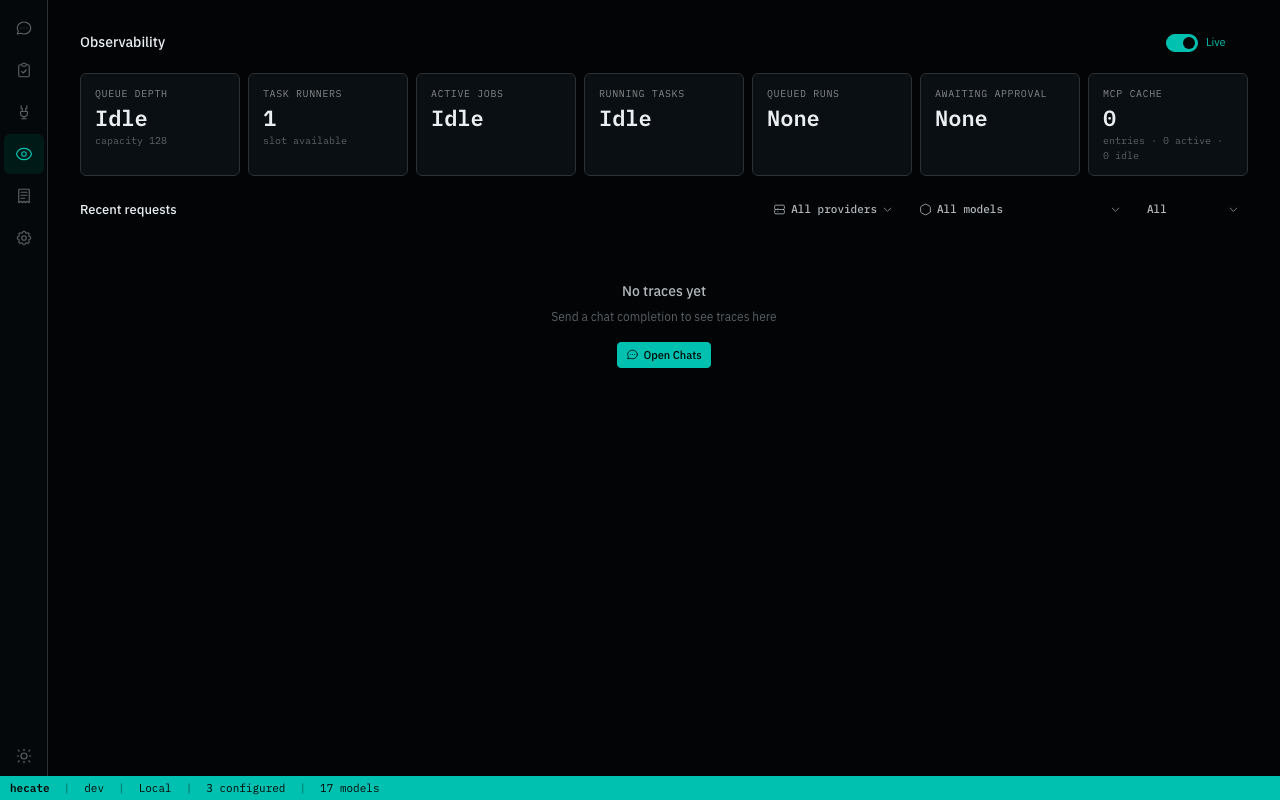
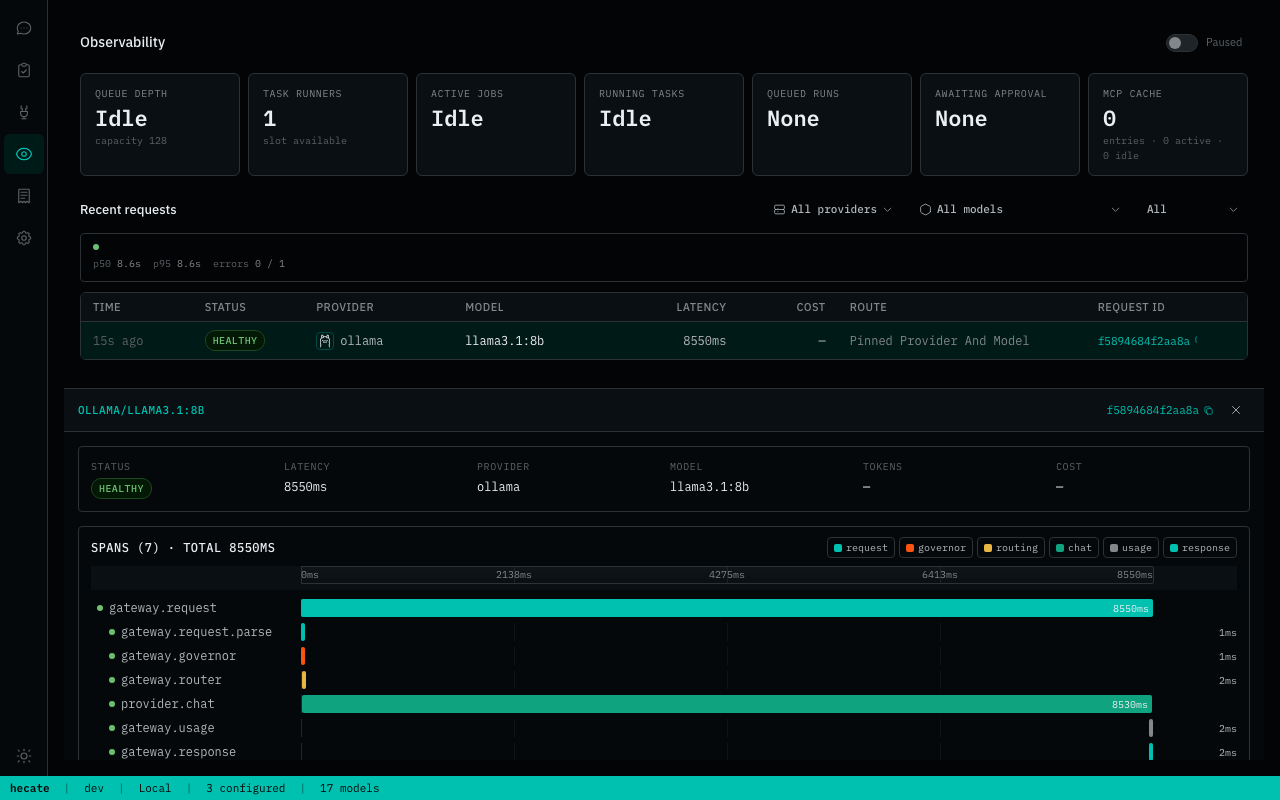
fix(docs): keep trace screenshot populated

diff --git a/scripts/capture-screenshots.ts b/scripts/capture-screenshots.ts
@@ -1224,6 +1224,195 @@ async function unrouteTaskDiagnosticsDocsFixture(page: Page) {
   await page.unroute(`${HECATE_API}/tasks/${docsTaskID}/runs/${docsRunID}/stream?after_sequence=0`);
 }
 
+async function routeObservabilityDocsFixture(page: Page) {
+  const requestID = "f5894684f2aa8a";
+  const traceID = "f5894684f206b30159aa8a92";
+  const startedAt = new Date(Date.now() - 15_000);
+  const at = (offsetMs: number) => new Date(startedAt.getTime() + offsetMs).toISOString();
+  const trace = {
+    request_id: requestID,
+    trace_id: traceID,
+    started_at: startedAt.toISOString(),
+    span_count: 7,
+    duration_ms: 8550,
+    status_code: "ok",
+    route: {
+      final_provider: "ollama",
+      final_provider_kind: "local",
+      final_model: "llama3.1:8b",
+      final_reason: "pinned_provider_and_model",
+      candidates: [
+        {
+          provider: "ollama",
+          provider_kind: "local",
+          model: "llama3.1:8b",
+          outcome: "selected",
+          reason: "pinned_provider_and_model",
+          latency_ms: 8550,
+        },
+        {
+          provider: "lmstudio",
+          provider_kind: "local",
+          model: "ministral-3:latest",
+          outcome: "skipped",
+          skip_reason: "provider_not_requested",
+        },
+      ],
+    },
+  };
+  const spans = [
+    {
+      trace_id: traceID,
+      span_id: "span_gateway",
+      name: "gateway.request",
+      kind: "server",
+      start_time: at(0),
+      end_time: at(8550),
+      status_code: "ok",
+      attributes: {
+        "http.route": "/v1/chat/completions",
+        "gen_ai.request.model": "llama3.1:8b",
+        "hecate.request.id": requestID,
+      },
+      events: [
+        {
+          name: "gateway.request.started",
+          timestamp: at(0),
+          attributes: { "hecate.request.id": requestID, "http.route": "/v1/chat/completions" },
+        },
+        {
+          name: "governor.check",
+          timestamp: at(1),
+          attributes: { "hecate.governor.decision": "allow" },
+        },
+        {
+          name: "router.selected",
+          timestamp: at(8),
+          attributes: {
+            "hecate.route.provider": "ollama",
+            "hecate.route.model": "llama3.1:8b",
+            "hecate.route.reason": "pinned_provider_and_model",
+          },
+        },
+        {
+          name: "provider.response.finished",
+          timestamp: at(8548),
+          attributes: { "gen_ai.usage.input_tokens": 82, "gen_ai.usage.output_tokens": 36 },
+        },
+        {
+          name: "gateway.response.sent",
+          timestamp: at(8550),
+          attributes: { "http.status_code": 200 },
+        },
+      ],
+    },
+    {
+      trace_id: traceID,
+      span_id: "span_parse",
+      parent_span_id: "span_gateway",
+      name: "gateway.request.parse",
+      kind: "internal",
+      start_time: at(0),
+      end_time: at(1),
+      status_code: "ok",
+    },
+    {
+      trace_id: traceID,
+      span_id: "span_governor",
+      parent_span_id: "span_gateway",
+      name: "gateway.governor",
+      kind: "internal",
+      start_time: at(1),
+      end_time: at(2),
+      status_code: "ok",
+    },
+    {
+      trace_id: traceID,
+      span_id: "span_router",
+      parent_span_id: "span_gateway",
+      name: "gateway.router",
+      kind: "internal",
+      start_time: at(7),
+      end_time: at(9),
+      status_code: "ok",
+    },
+    {
+      trace_id: traceID,
+      span_id: "span_provider",
+      parent_span_id: "span_gateway",
+      name: "provider.chat",
+      kind: "client",
+      start_time: at(10),
+      end_time: at(8540),
+      status_code: "ok",
+      attributes: {
+        "gen_ai.system": "ollama",
+        "gen_ai.request.model": "llama3.1:8b",
+      },
+    },
+    {
+      trace_id: traceID,
+      span_id: "span_usage",
+      parent_span_id: "span_gateway",
+      name: "gateway.usage",
+      kind: "internal",
+      start_time: at(8541),
+      end_time: at(8543),
+      status_code: "ok",
+    },
+    {
+      trace_id: traceID,
+      span_id: "span_response",
+      parent_span_id: "span_gateway",
+      name: "gateway.response",
+      kind: "internal",
+      start_time: at(8548),
+      end_time: at(8550),
+      status_code: "ok",
+    },
+  ];
+
+  await page.route(`${HECATE_API}/traces?limit=50`, (route) =>
+    fulfillJSON(route, { object: "trace_list", data: [trace] }),
+  );
+  await page.route(`${HECATE_API}/traces?request_id=${requestID}`, (route) =>
+    fulfillJSON(route, {
+      object: "trace",
+      data: {
+        ...trace,
+        spans,
+      },
+    }),
+  );
+  await page.route(`${HECATE_API}/usage/events?limit=20`, (route) =>
+    fulfillJSON(route, {
+      object: "usage_events",
+      data: [
+        {
+          type: "chat_completion",
+          scope: "provider",
+          provider: "ollama",
+          model: "llama3.1:8b",
+          request_id: requestID,
+          actor: "operator",
+          amount_micros_usd: 0,
+          amount_usd: "0.00000",
+          prompt_tokens: 82,
+          completion_tokens: 36,
+          total_tokens: 118,
+          timestamp: at(8550),
+        },
+      ],
+    }),
+  );
+}
+
+async function unrouteObservabilityDocsFixture(page: Page) {
+  await page.unroute(`${HECATE_API}/traces?limit=50`);
+  await page.unroute(`${HECATE_API}/traces?request_id=f5894684f2aa8a`);
+  await page.unroute(`${HECATE_API}/usage/events?limit=20`);
+}
+
 async function routeLocalProviderDiscoveryDocsFixture(page: Page) {
   await page.route(`${HECATE_API}/settings/providers/local-discovery`, (route) =>
     route.fulfill({
@@ -1566,13 +1755,15 @@ async function main() {
 
   // ── 9. Observability — pick a trace first ───────────────────────────────────
   console.log("→ observe (trace selected)");
+  await routeObservabilityDocsFixture(page);
   await openWorkspace(page, "overview");
   await page.waitForTimeout(800);
   try {
     const firstRow = page.locator("[data-trace-row], tbody tr").first();
     if ((await firstRow.count()) > 0 && (await firstRow.isVisible())) {
       await firstRow.click({ timeout: 2_000 });
-      await page.waitForTimeout(800);
+      await page.waitForSelector('[data-testid="trace-event-flow"]', { timeout: 3_000 });
+      await page.waitForTimeout(500);
     } else {
       console.warn("  no trace rows found — taking the empty-list shot");
     }
@@ -1580,6 +1771,7 @@ async function main() {
     console.warn(`  trace click skipped: ${(err as Error).message}`);
   }
   await snap(page, "observe");
+  await unrouteObservabilityDocsFixture(page);
 
   // ── 10. Usage workspace ────────────────────────────────────────────
   console.log("→ usage");